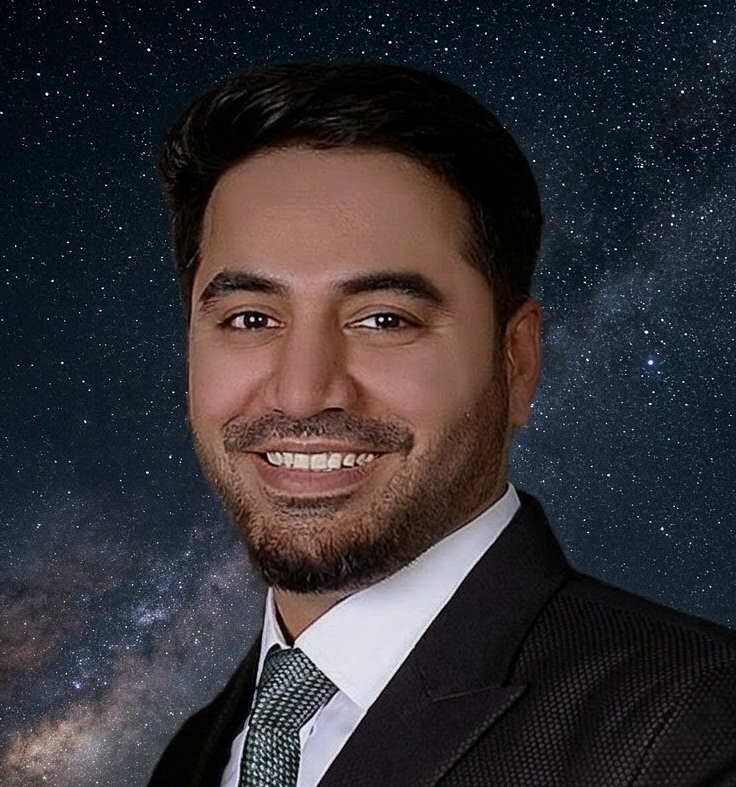
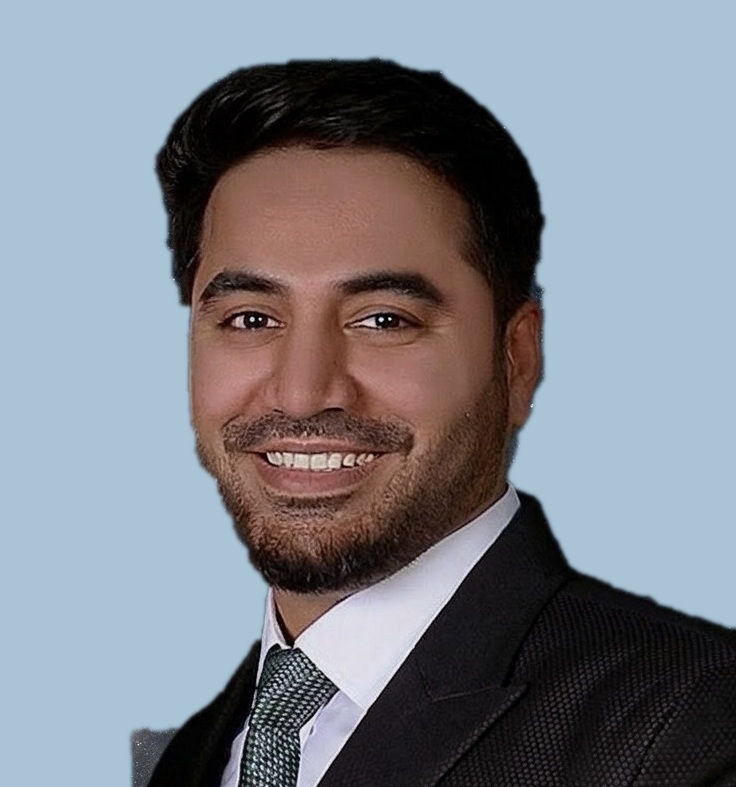
Full-bleed hero background, and a plain backdrop for the headshot
#hero is a <section>, and the section rule caps those at 1200px and centres
them, so the gradient wash painted a 1200px box and stopped. That read as a
floating tile with empty margins either side. The old particle canvas was
confined to the same box, but sparse dots on black hid the edge. The hero
now spans the full width while .hero-content keeps the 1200px measure for
the text.

The starfield was composited into profile.jpg itself, so it came out in the
image rather than in CSS: GrabCut separation, then a soft corporate blue.
The hard parts were hair against sky and a near-black suit against a
near-black background, so the cutout was inspected rather than trusted.

Original and a darker slate alternative are kept in backup/versions/.

diff --git a/index.html b/index.html
@@ -69,9 +69,15 @@
         }
         .hamburger span { width: 25px; height: 2px; background: var(--text); transition: all 0.3s; }
         /* HERO */
+        /* #hero is a <section>, and the section rule caps those at 1200px and
+           centres them. The old particle canvas was confined to that box too,
+           but sparse dots on black hid the boundary; any visible background
+           makes the box read as a floating tile. Full bleed here, with
+           .hero-content still holding the 1200px measure for the text. */
         #hero {
             min-height: 100vh; display: flex; align-items: center;
             position: relative; overflow: hidden; padding: 0 2rem;
+            max-width: none; width: 100%;
         }
         /* A still wash instead of the drifting particle field: the movement
            read as a games or developer site rather than an audit practice. */
